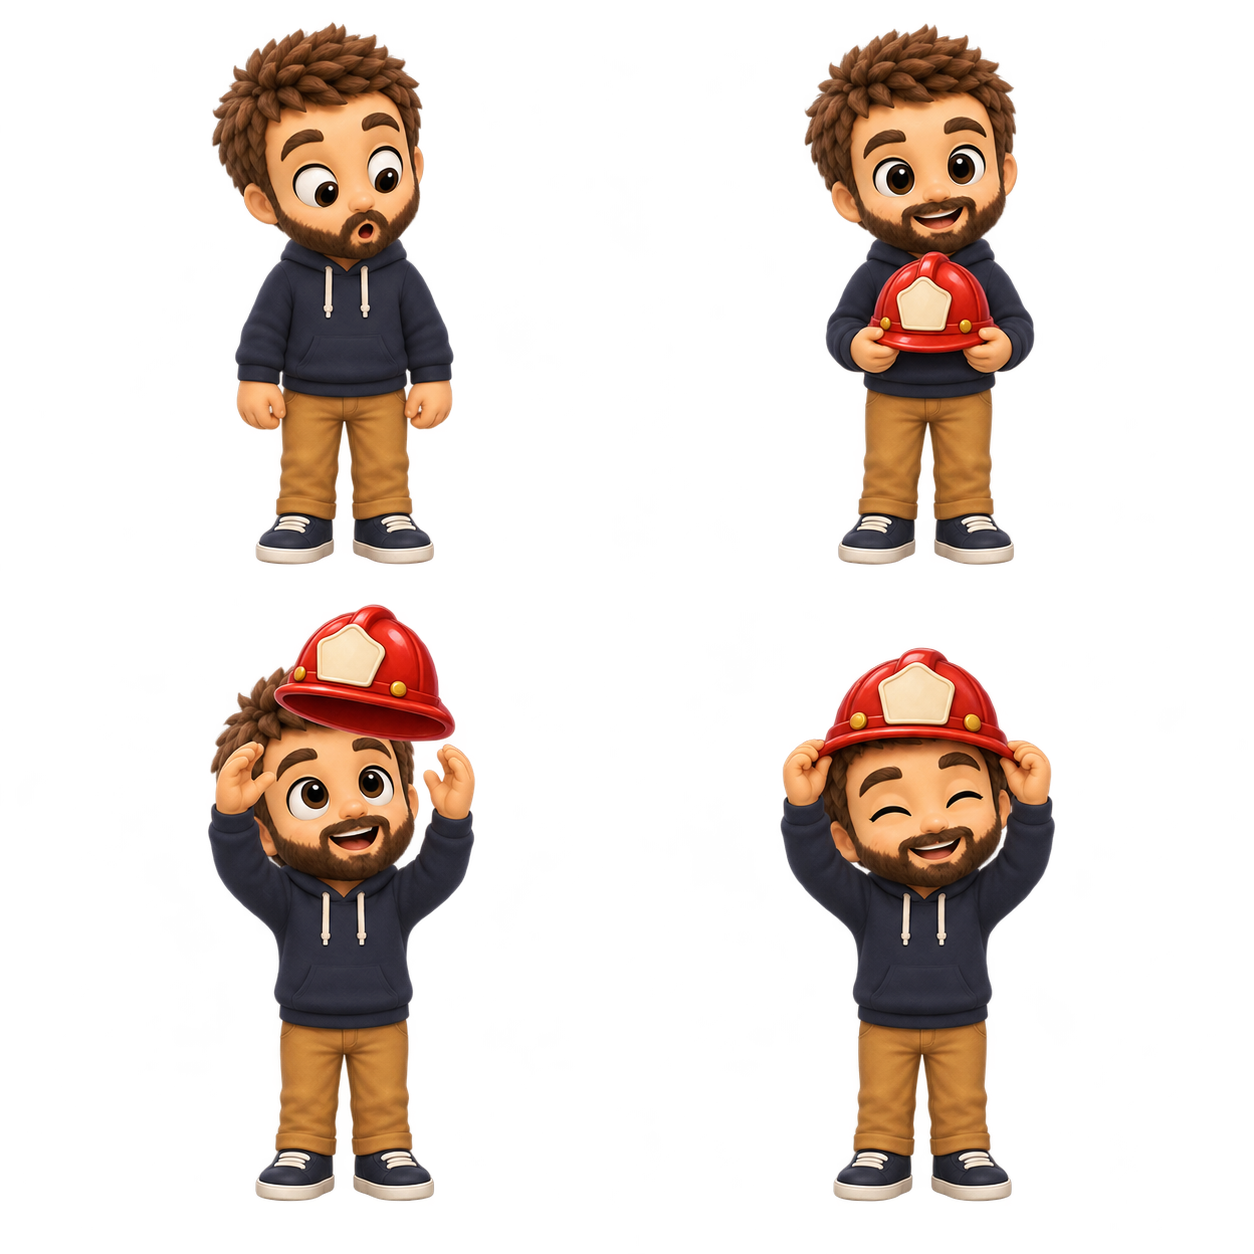
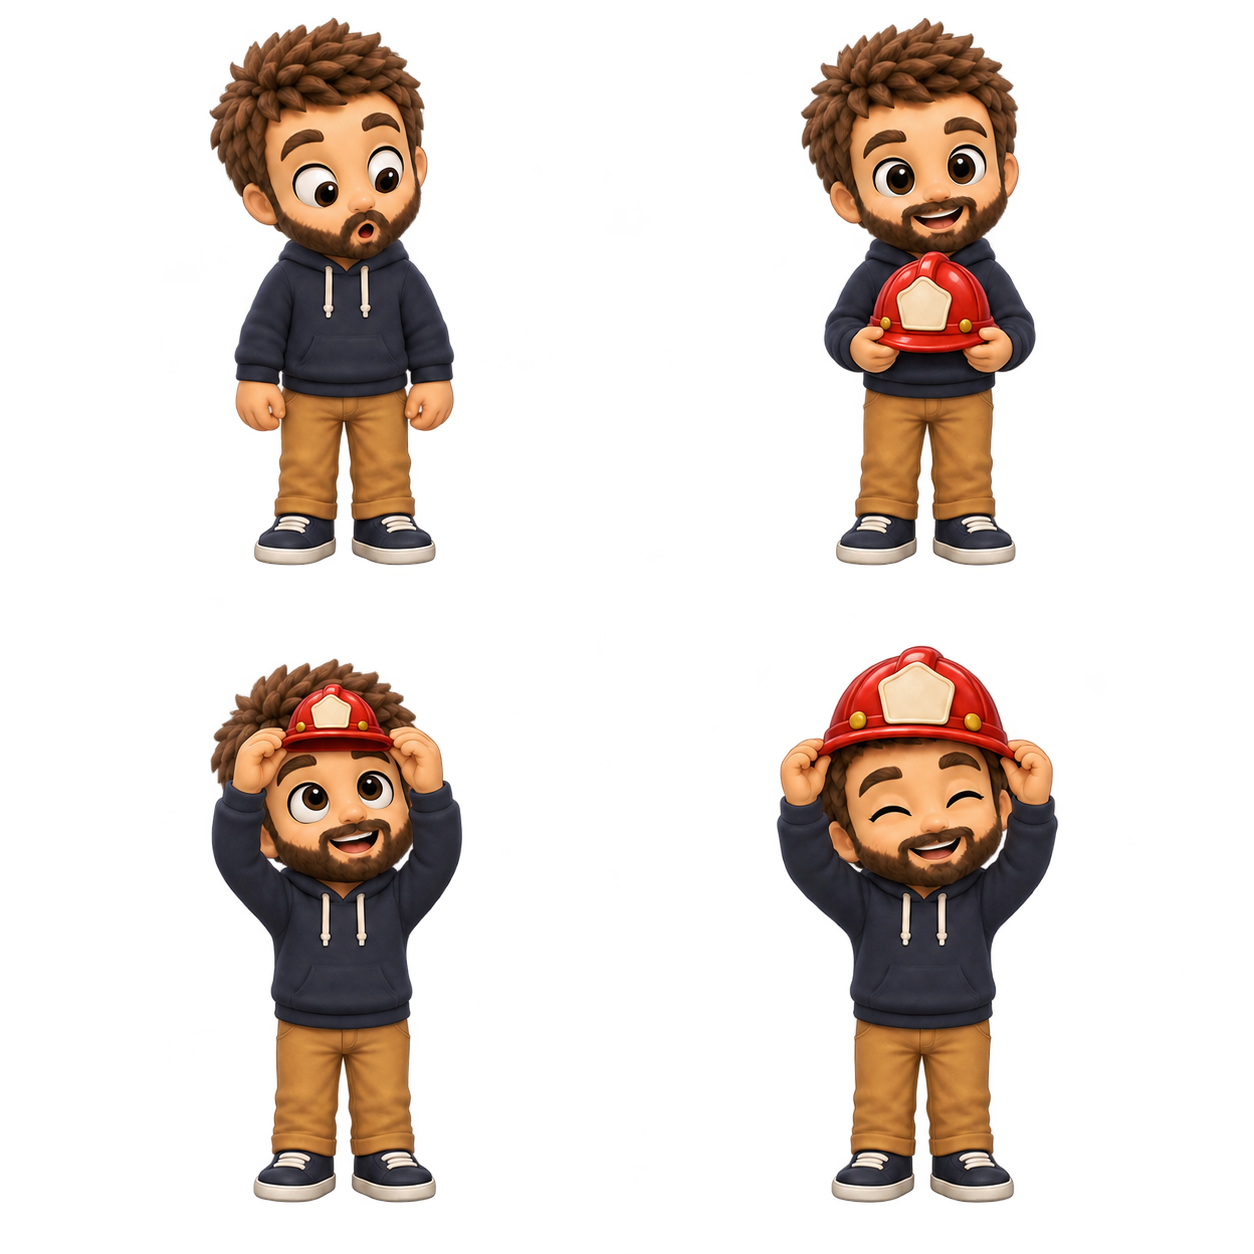
Revise Little Chris helmet lift sheet

diff --git a/docs/design/provenance.md b/docs/design/provenance.md
@@ -149,6 +149,10 @@ Little Chris ambient B replacement review: both yawns have hands raised close to
 
 Incident-end B replacement review: 04 looks down-left with small helmet; phew pose is regenerated in same intent, not pixel-identical. No visible effect marks. Exact bounds and baseline unverified. No retry.
 
[1 lines of base64/hex data omitted]
+
+Little Chris incident-start A replacement review: 02 helmet is small, held at forehead and below hair top, but appears seated against hair rather than clearly in transit; its size also changes markedly in 03. Other cells are regenerated in same intent, not pixel-identical. Exact bounds and baseline unverified. No retry.
+
 Both images are 1254×1254 and have alpha channels. Visual review: the helmet in pose 02 is already seated rather than clearly in transit, pose 01 looks forward rather than alert down-left, and pose 00's gaze is not clearly down-left. Helmet-on poses change the apparent head silhouette and scale; the helmet crown and overall bounds require measurement during later packing and review. No runtime frame, baseline, or bounds validation is claimed here. The props sheet places the helmet close to the central cell boundary. No retry or retouch was performed.
 
 Generated on 2026-11-12 using the built-in `image_gen.imagegen` integration under the imagegen skill. The orchestration terminal was launched with `gpt-6.1-sol`; the image integration does not expose its image-model identifier. No alternative model, procedural mascot, downloaded Octocat artwork, official GitHub logo, or credential was used.
